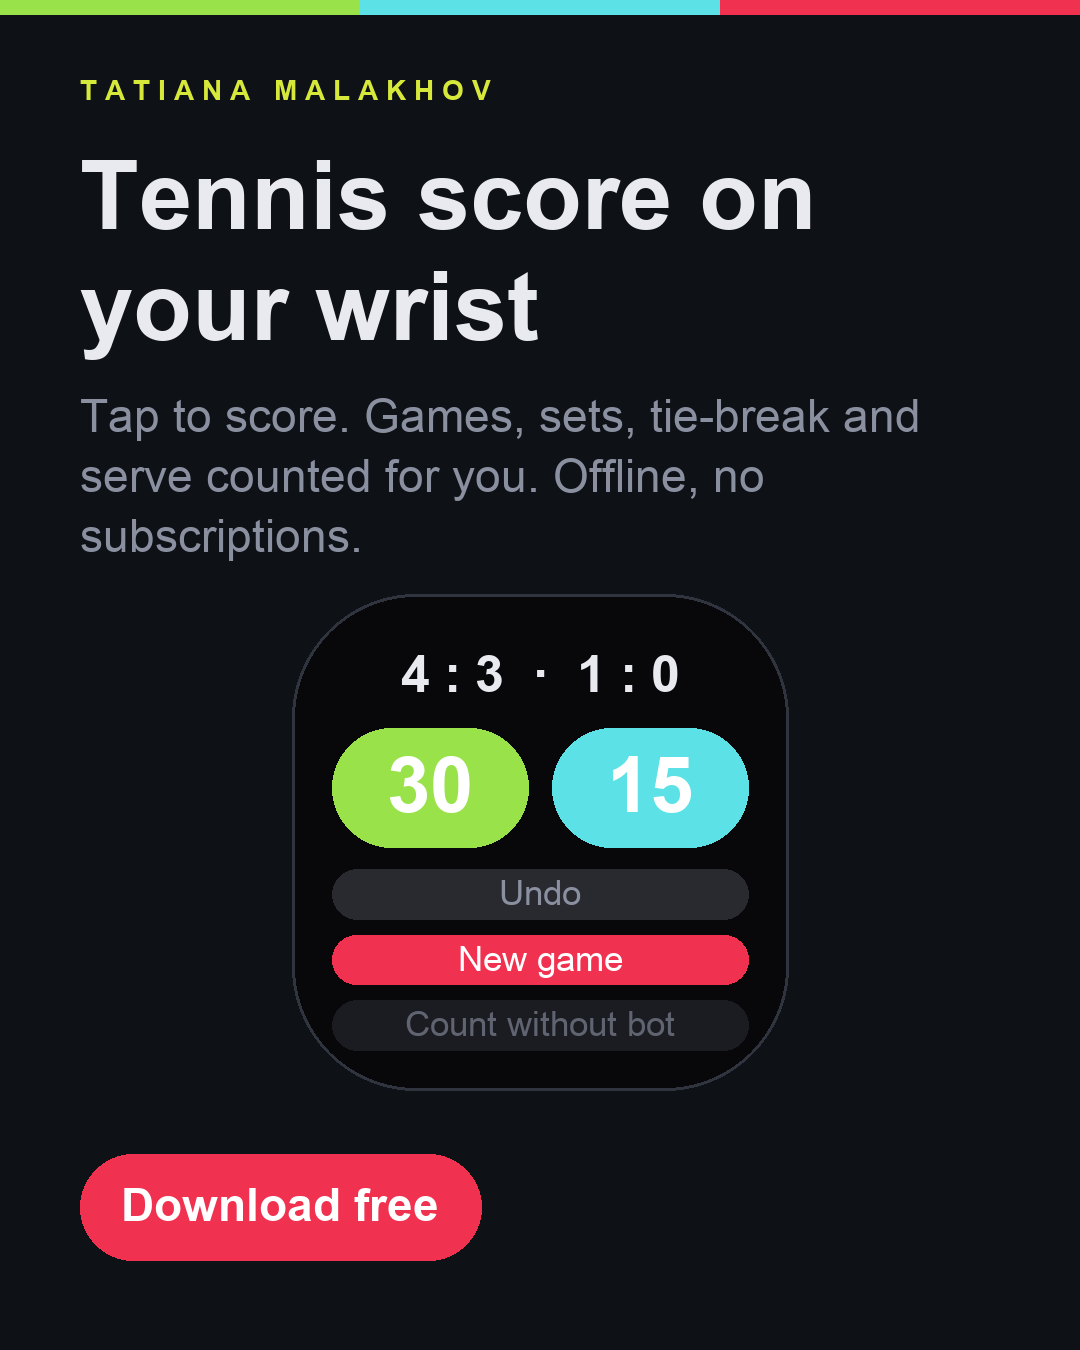
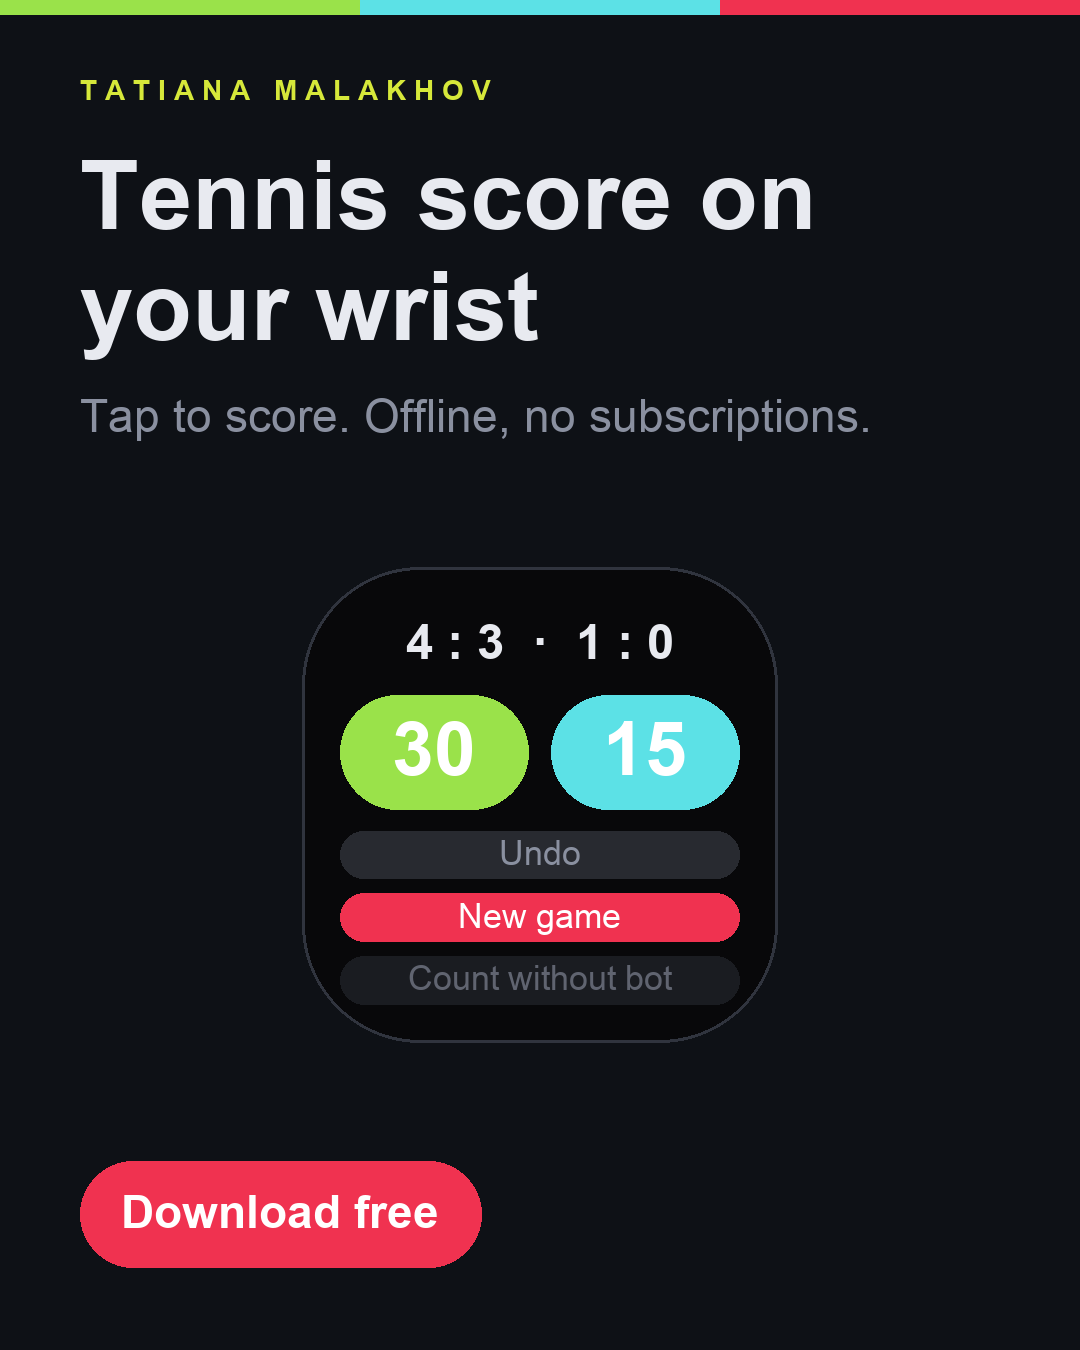
Кнопка отсчитывается от экрана часов, а не от доли высоты
Красный призыв липнул к нижнему краю циферблата: положение считалось
долей высоты картинки, а размер часов от неё не зависит. На одном
формате совпало, на другом слиплось.

Теперь кнопка стоит не ближе заданного просвета от экрана — и эта
ошибка не вернётся при смене размеров, которую иначе видно только на
готовой картинке.

diff --git a/tools/make_card.py b/tools/make_card.py
@@ -37,14 +37,14 @@ SHAPES = {
 # отличаются на шестьсот точек, и подписанные вручную координаты
 # развалились бы на одном из них.
 TALL = {
-    "feed": {"sign": 0.055, "title": 0.105, "watch": 0.44,
-             "size": 0.46, "cta": 0.855},
+    "feed": {"sign": 0.055, "title": 0.105, "watch": 0.42,
+             "size": 0.44, "cta": 0.86, "gap": 0.055},
     # История: сверху Telegram рисует аватар, имя и время, снизу — поле
     # ответа и вложенную ссылку. Всё, что попадёт в эти полосы, читатель
     # не увидит вовсе. Поэтому содержимое живёт между ними, а не по
     # краям картинки.
-    "story": {"sign": 0.135, "title": 0.185, "watch": 0.45,
-              "size": 0.50, "cta": 0.735},
+    "story": {"sign": 0.135, "title": 0.185, "watch": 0.42,
+              "size": 0.48, "cta": 0.78, "gap": 0.055},
 }
 SIZE = SHAPES["post"]
 
@@ -235,13 +235,22 @@ def card(title: str, subtitle: str = "", note: str = "",
                 draw.text((margin, y), line, font=mid, fill=DIM)
                 y += mid.size * 1.3
 
+        bottom = None
         if face:
             screen = int(size[0] * plan["size"])
-            watch(draw, (size[0] - screen) // 2, int(size[1] * plan["watch"]),
-                  screen, face[0], face[1], lang)
+            top = int(size[1] * plan["watch"])
+            watch(draw, (size[0] - screen) // 2, top, screen,
+                  face[0], face[1], lang)
+            bottom = top + screen
 
         if note:
-            pill(draw, margin, int(size[1] * plan["cta"]), note, 46)
+            # Кнопку ставим от нижнего края экрана, а не по доле высоты:
+            # иначе при другом размере часов она в него упирается, и это
+            # видно только на готовой картинке.
+            cta_y = int(size[1] * plan["cta"])
+            if bottom is not None:
+                cta_y = max(cta_y, bottom + int(size[1] * plan["gap"]))
+            pill(draw, margin, cta_y, note, 46)
     else:
         screen = 420 if face else 0
         width = size[0] - margin * 2 - (screen + 40 if face else 0)
